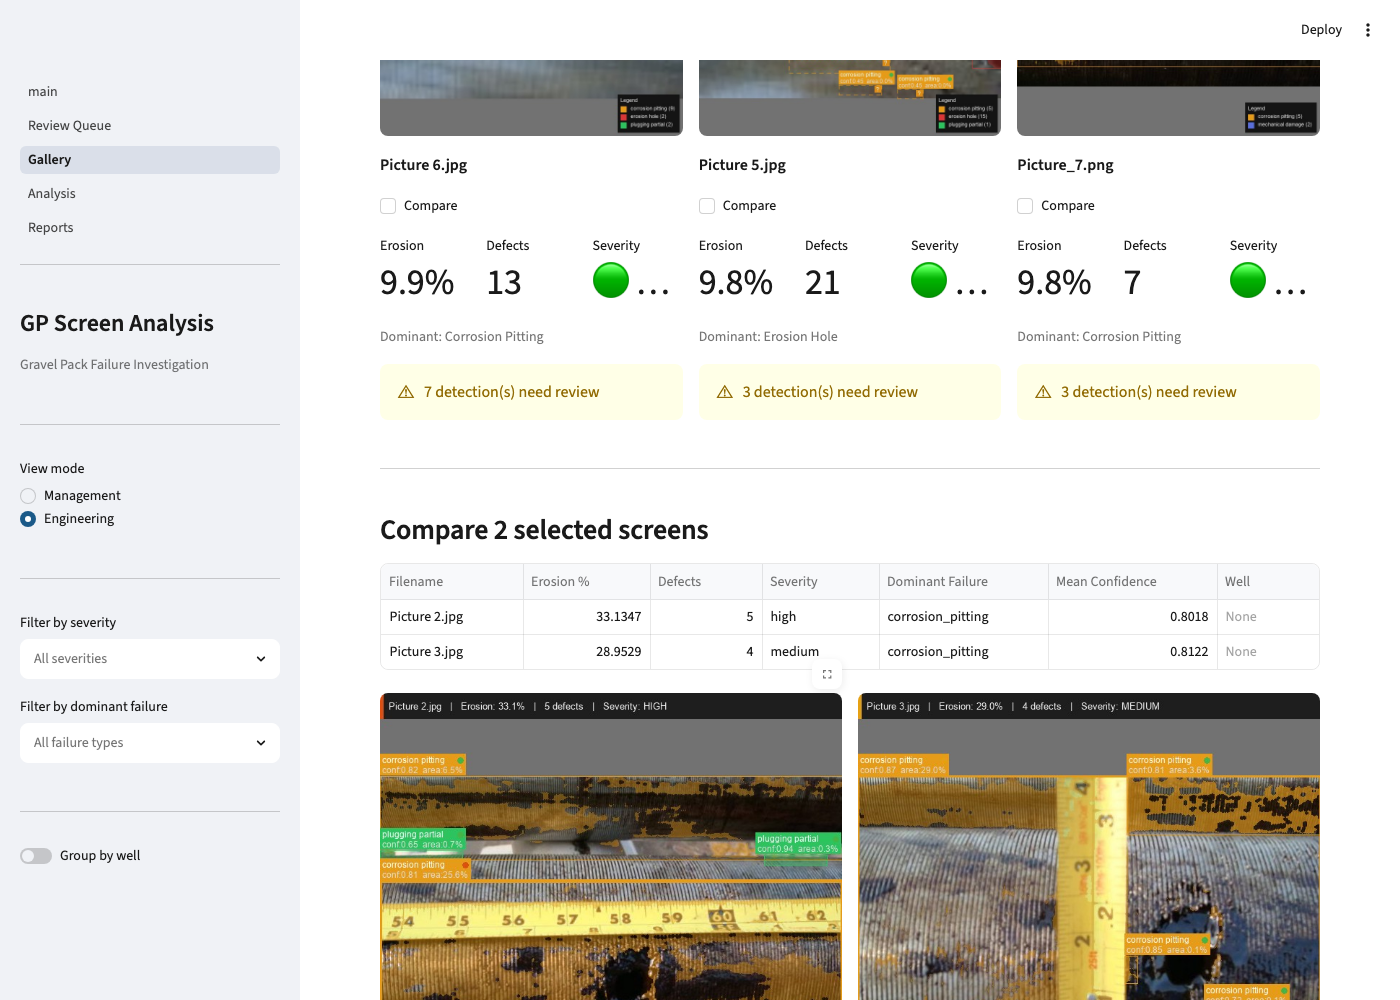
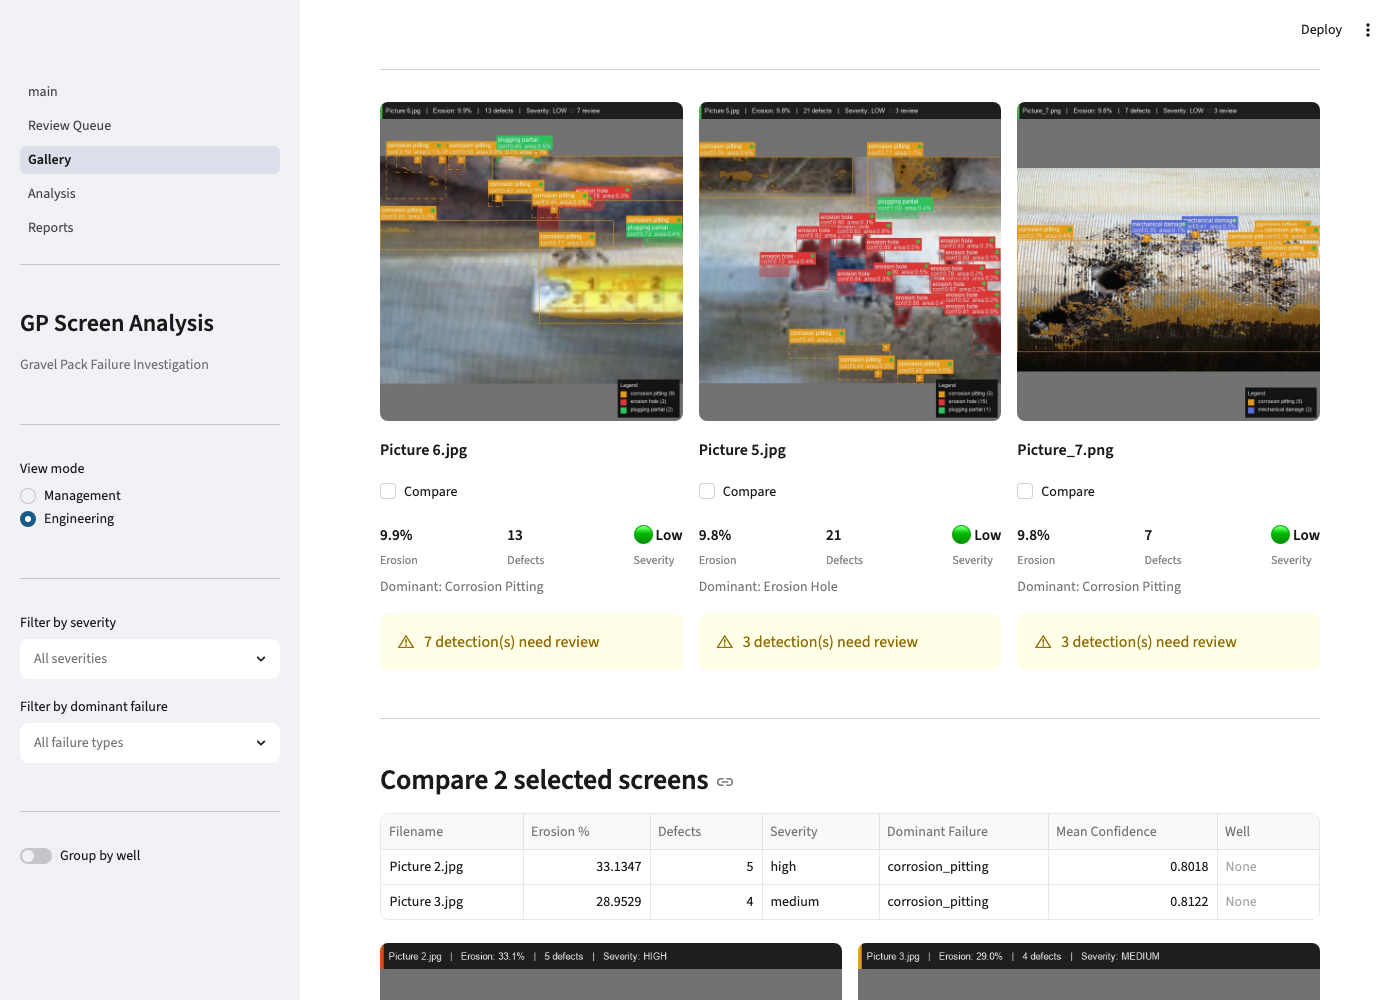
Fix truncated metric values on Gallery page and refresh screenshots
Nested st.metric widgets in the 3-per-row gallery cards were too narrow
to fit values like "33.1%", so Streamlit clipped them to "33....". Swap
in a compact flexbox markdown stat row instead, and recapture the
README gallery screenshots to reflect the fix.

diff --git a/app/pages/2_Gallery.py b/app/pages/2_Gallery.py
@@ -135,10 +135,18 @@ def _render_card(col, rec) -> None:
         st.checkbox("Compare", key=f"cmp_{rec['image_id']}")
 
         sev = rec["overall_severity"]
-        m1, m2, m3 = st.columns(3)
-        m1.metric("Erosion", f"{rec['erosion_pct']:.1f}%")
-        m2.metric("Defects", int(rec["n_defects"]))
-        m3.metric("Severity", f"{sev_emoji.get(sev,'')} {sev.capitalize()}")
+        st.markdown(
+            f"<div style='display:flex;justify-content:space-between;"
+            f"font-size:0.95rem;padding:4px 0'>"
+            f"<span><b>{rec['erosion_pct']:.1f}%</b><br>"
+            f"<span style='color:#888;font-size:0.75rem'>Erosion</span></span>"
+            f"<span><b>{int(rec['n_defects'])}</b><br>"
+            f"<span style='color:#888;font-size:0.75rem'>Defects</span></span>"
+            f"<span><b>{sev_emoji.get(sev,'')} {sev.capitalize()}</b><br>"
+            f"<span style='color:#888;font-size:0.75rem'>Severity</span></span>"
+            f"</div>",
+            unsafe_allow_html=True,
+        )
 
         if role == "Engineering":
             dom = rec["dominant_failure_type"].replace("_", " ").title()
